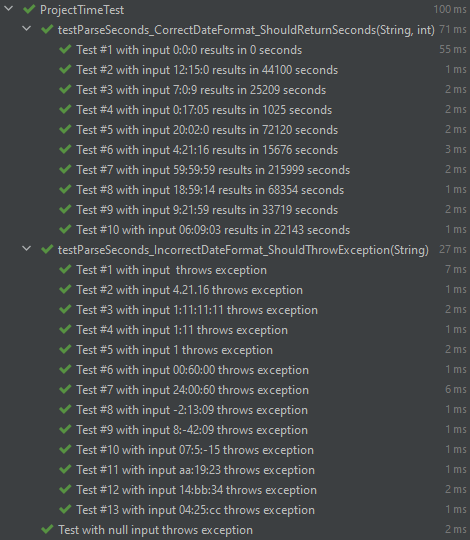
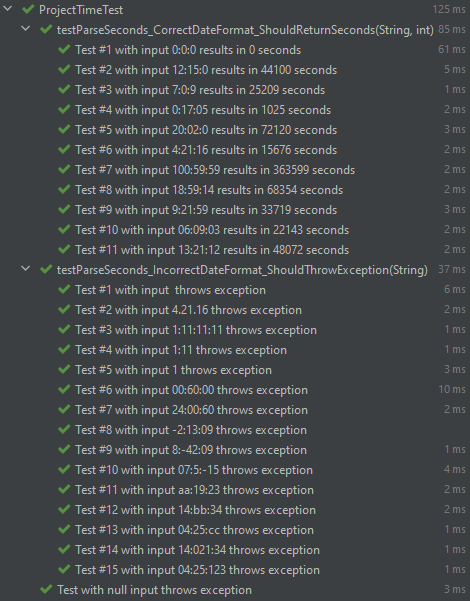
Added some missing cases

Changed region(s): [[0.0596, 0.0, 1.0, 1.0], [0.0298, 0.4444, 0.0596, 0.4741], [0.0298, 0.0296, 0.0596, 0.0593]]

diff --git a/src/test/java/de/dominik_geyer/jtimesched/project/ProjectTest.java b/src/test/java/de/dominik_geyer/jtimesched/project/ProjectTest.java
@@ -42,32 +42,31 @@ public class ProjectTest {
     @Nested
     public class adjustSecondsTodayTest {
         Project proj;
+        final int overallTime = 50;
+        final int previousValue = 4;
         
         @BeforeEach
         void setup() {
             proj = new Project("Test Project");
 
-            proj.setSecondsToday(4);
-            proj.setSecondsOverall(50);
+            proj.setSecondsToday(previousValue);
+            proj.setSecondsOverall(overallTime);
         }
         
         @ParameterizedTest(name = "Test #{index} with Positive input {arguments}")
-        @ValueSource(ints = {1,2,5,6})
+        @ValueSource(ints = {1,2,3,4,5,6})
         public void testAdjustSecondsToday_PositiveInput_ShouldReturnOverallTime(int value) {
-            
             proj.adjustSecondsToday(value);
-            assertEquals(value,proj.getSecondsToday());
-            assertEquals(50 + value - 4,proj.getSecondsOverall());
-        } 
-       
+            assertEquals(value, proj.getSecondsToday());
+            assertEquals(overallTime + value - previousValue, proj.getSecondsOverall());
+        }
 
-        @ParameterizedTest(name = "Test #{index} with Negative Input {arguments}")
-        @ValueSource(ints = {-2,-1,0})
+        @ParameterizedTest(name = "Test #{index} with Non-Positive input {arguments}")
+        @ValueSource(ints = {-2,0})
         public void testAdjustSecondsToday_NegativeInput_ShouldBecomeZero(int value) {
-
             proj.adjustSecondsToday(value);
-            assertEquals(0,proj.getSecondsToday());
-            assertEquals(50 - 4,proj.getSecondsOverall());
+            assertEquals(0, proj.getSecondsToday());
+            assertEquals(overallTime - previousValue, proj.getSecondsOverall());
         }
     }
 }

diff --git a/src/test/java/de/dominik_geyer/jtimesched/project/ProjectTimeTest.java b/src/test/java/de/dominik_geyer/jtimesched/project/ProjectTimeTest.java
@@ -18,13 +18,13 @@ public class ProjectTimeTest {
     }
 
     @ParameterizedTest(name = "Test #{index} with input {0} results in {1} seconds")
-    @CsvSource(value = {"0:0:0,0", "12:15:0,44100", "7:0:9,25209", "0:17:05,1025", "20:02:0,72120", "4:21:16,15676", "59:59:59,215999", "18:59:14,68354", "9:21:59,33719", "06:09:03,22143"})
+    @CsvSource(value = {"0:0:0,0", "12:15:0,44100", "7:0:9,25209", "0:17:05,1025", "20:02:0,72120", "4:21:16,15676", "100:59:59,363599", "18:59:14,68354", "9:21:59,33719", "06:09:03,22143", "13:21:12,48072"})
     public void testParseSeconds_CorrectDateFormat_ShouldReturnSeconds(String format, int value) throws ParseException {
         assertEquals(value, parseSeconds(format));
     }
 
     @ParameterizedTest(name = "Test #{index} with input {arguments} throws exception")
-    @ValueSource(strings = {"", "4.21.16", "1:11:11:11","1:11","1","00:60:00","24:00:60", "-2:13:09", "8:-42:09", "07:5:-15", "aa:19:23", "14:bb:34", "04:25:cc"})
+    @ValueSource(strings = {"", "4.21.16", "1:11:11:11","1:11","1","00:60:00","24:00:60", "-2:13:09", "8:-42:09", "07:5:-15", "aa:19:23", "14:bb:34", "04:25:cc", "14:021:34", "04:25:123"})
     public void testParseSeconds_IncorrectDateFormat_ShouldThrowException(String format) {
         assertThrows(ParseException.class, () -> parseSeconds(format));
     }

diff --git a/assignments/assignment3.md b/assignments/assignment3.md
@@ -22,7 +22,7 @@ After applying the *Category Partition* algorithm to these functions, we perform
 For each partition, we test an *in-point*: a value that makes the condition at hand evaluate to true.
 For each boundary, we test an *on-point*, which corresponds to the value that is exactly on the borderline, therefore being the value that we can see in the condition itself.
 We also test, for each boundary, an *off-point*, which is the value closest to the borderline that flips the condition's result. In the cases where the result of the boundary value differs from the result of both its closest values, it is necessary to test two *off-points*, one in each direction.
-Some *out-points* are naturally tested (values that make the condition evaluate to false), since we choose an *in-point* for each condition.
+Some *out-points* are naturally tested (values that make the condition evaluate to false) since we choose an *in-point* for each condition.
 
 We tried our best to follow a black-box testing approach, even though the [documentation](https://paginas.fe.up.pt/~jcmc/tvvs/2022-2023/assignments/jtimesched-javadoc/index.html) of the project at hand is non-existent, limited only to the signature of the functions.
 For this reason, we were forced to resort to source code to understand the purpose of some functions, but even in these cases, we tried to just focus on their purpose and not on their functioning, to avoid being influenced when writing the tests.
@@ -41,8 +41,8 @@ Changing project times should update overall and today's times properly, hence t
 #### *Category-Partition* algorithm
 
 1. This method has only one parameter:
-    - `secondsToday`: an int representing the provided seconds in the table field.
-1. For each parameter we define the characteristics as:
+    - `secondsToday`: an int representing the provided seconds in the table field
+1. For each parameter, we define the characteristics as:
     - `secondsToday`: corresponds to the number of seconds of the user input variable
 1. The number of characteristics and parameters is not too large in this case, so we don't need to be defining testable combinations of features.
    *Constraints*: negative values for the variable `secondsToday` are not allowed.
@@ -57,99 +57,95 @@ Changing project times should update overall and today's times properly, hence t
 Regarding the `secondsToday` variable, there are three possible partitions, where `previousValue` is the previous value of `secondsToday` before the method execution:
 
 1. E1: `secondsToday` &le; 0
-1. E2: 0 &lt; `secondsToday` &lt; `previousValue` 
+1. E2: 0 &lt; `secondsToday` &le; `previousValue`
 1. E3: 0 &lt; `previousValue` &lt;  `secondsToday`
 
 Visually representing the partitions, we are faced with the following graphic:
 
 ![Domain of the variable `secondsToday`](./images/domain_secondsToday.png)
 
-The three chosen test cases corresponding to *in-points* of each partition are -2, 2 and 6.
+In the case to be tested, we consider that the previous value of `secondsToday` (`previousValue`) is 4.
+
+According to this, the three chosen test cases corresponding to *in-points* of each partition are -2, 2 and 6.
+For the first boundary (between E1 and E2), we get the *on-point* 0 and there is only one *off-point*, the value 1, because it's the closest value where the result flips (non-positive values have the same result: `secondsToday` becomes zero, and the time variables are updated accordingly).
+For the second boundary (between E2 and E3), we get the *on-point* 4 and there are two *off-points*, 3 and 5, since when `secondsToday` is equal to `previousValue` no changes occur to the time variables, and the behaviour of the *off-points* differs: 3 results in a decrease of the time variables and 5 results in an increase.
 
 Finally, the following image represents the tested input values for the `adjustSeconds` parameter, according to the tested situation (`previousValue` = 4).
 
 ![Tested input values of the variable `secondsToday` after *Boundary Value Analysis*](./images/points_secondsToday.png)
 
-- previousValue = 4
-- *On-Points*: 0 and 4
-- *Off-Points*: -1 and 5
-- *In-points*: -2 , 2, and 4
-TODO: Arranjar a forma de descrever esta imagem final de uma forma mais semelhante ás que o paulinho fez, apra ser consistente
-
 #### Unit Tests
 
-The tests implemented for this function can be found in the `ProjectTest.java` file, inside the test directory. We decided to create two test methods for different input values of the `secondsToday` parameter.
+The tests implemented for this function can be found in the `ProjectTest.java` file, inside the test directory.
+We decided to create two test methods for different input values of the `secondsToday` parameter.
 
 All tests have the following steps:
 1. Creating a new `Project` variable
-1. Setting the project's `secondsToday` variable to a specific value and `secondsOverall` variables to a specific value
-1. Calling the `adjustSecondsToday` method with a specific value in its argument
-1. Verifying the final values for the `secondsToday` and `secondsOverall` variables after the method has been called, expecting a predetermined output using the `assertEquals` method
+1. Setting the project's `secondsToday` and `secondsOverall` variables to a specific initial value (4 and 50, respectively)
+1. Calling the `adjustSecondsToday` method with a specific value as its argument
+1. Verifying the final values for the `secondsToday` and `secondsOverall` variables after the method has been called, expecting the proper changes of the time variables using the `assertEquals` method
 
-Using the `@BeforeEach` annotation, we manage to perform the first 2 steps immediately before every single test. Therefore, the tests only differ on the values provided for steps 3 and 4.
+Using the `@BeforeEach` annotation, we manage to perform the first two steps immediately before every single test.
+Therefore, the tests only differ on the values provided for steps three and four.
 
-We have decided to choose 4 as the previous value for the `secondsToday` variable before method call, which allows testing the borders as well as nominal values in the interval.
+We have decided to choose 4 as the previous value for the `secondsToday` variable before the method call, which allows testing the borders as well as nominal values in the interval.
 The `secondsOverall` variable is set to 50, which is simply a fixed value used to ensure the method performs its expected operations.
 
 ```java
-public class adjustSecondsTodayTest {
-    Project proj;
-    
-    @BeforeEach
-    void setup() {
-        proj = new Project("Test Project");
-
-        proj.setSecondsToday(4);
-        proj.setSecondsOverall(50);
-    }
-
-    // ... remaining tests ... 
+@Nested
+public class adjustSecondsTodayTest { 
+  Project proj;
+  final int overallTime = 50;
+  final int previousValue = 4;
+   
+  @BeforeEach
+  void setup() { 
+    proj = new Project("Test Project");
+   
+    proj.setSecondsToday(previousValue);
+    proj.setSecondsOverall(overallTime);
+  }
+   
+  (...)
 }
 ```
 
-In the first case, there are two categories being tested, either when:
-1. The value initially set on the `secondsToday` variable before the method call is *smaller* than the given argument (Partition E2)
-2. The value initially set on the `secondsToday` variable before the method call is *greater* than the given argument (Partition E3)
+In the first case, two categories are being tested, either when:
 
-Both categories have two values being tested, the first being the closest *off-point* to the border, and the second being a nominal value in the provided interval.
+1. The value provided in the `secondsToday` parameter is *smaller or equal* to the previous value (Partition E2)
+1. The value provided in the `secondsToday` parameter is *greater* than the previous value (Partition E3)
 
 This results, respectively, in:
-1. An *increased* expected output of the `secondsOverall` variable after the method call;
-2. A *lowered* expected output of the `secondsOverall` variable after the method call;
 
+1. A *lowered or equal* expected output of the `secondsOverall` variable after the method call;
+1. An *increased* expected output of the `secondsOverall` variable after the method call;
 
 ```java
 @ParameterizedTest(name = "Test #{index} with Positive input {arguments}")
-    @ValueSource(ints = {1,2,5,6})
-    public void testAdjustSecondsToday_PositiveInput_ShouldReturnOverallTime(int value) {
-        Project proj = new Project("Test Project");
-        proj.setSecondsToday(4);
-        proj.setSecondsOverall(50);
-        proj.adjustSecondsToday(value);
-
-        assertEquals(value,proj.getSecondsToday());
-        assertEquals(50 + value - 4,proj.getSecondsOverall());
-    } 
+@ValueSource(ints = {1,2,3,4,5,6})
+public void testAdjustSecondsToday_PositiveInput_ShouldReturnOverallTime(int value) {
+  proj.adjustSecondsToday(value);
+  assertEquals(value, proj.getSecondsToday());
+  assertEquals(overallTime + value - previousValue, proj.getSecondsOverall());
+}
 ```
 
-In the seconds and last case, the E1 partition is being tested, as the value initially set on the `secondsToday` variable is positive and the one provided in the method call is not positive. In the situation, the parameter is parsed as zero and the method updates the `secondsToday` and `secondsOverall` variables accordingly.
+In the second case, the E1 partition is being tested, as the value initially set on the `secondsToday` variable is positive and the one provided in the method call is not positive.
+In this situation, the parameter is parsed as zero and the method updates the `secondsToday` and `secondsOverall` variables accordingly.
 
 ```java
-@ParameterizedTest(name = "Test #{index} with Non Positive Input {arguments}")
-    @ValueSource(ints = {-2,-1,0})
-    public void testAdjustSecondsToday_NegativeInput_ShouldBecomeZero(int value) {
-
-        proj.adjustSecondsToday(value);
-        assertEquals(0,proj.getSecondsToday());
-        assertEquals(50 - 4,proj.getSecondsOverall());
-    }
+@ParameterizedTest(name = "Test #{index} with Non-Positive input {arguments}")
+@ValueSource(ints = {-2,0})
+public void testAdjustSecondsToday_NegativeInput_ShouldBecomeZero(int value) {
+  proj.adjustSecondsToday(value);
+  assertEquals(0, proj.getSecondsToday());
+  assertEquals(overallTime - previousValue, proj.getSecondsOverall());
+}
 ```
 
 All the tests above passed successfully, as expected.
 
-TODO: Mudar o .png, eu tou a testar com o VSCode, convém ficar igual pelo intelIJ em todo o lado.
-![All tests of the method `adjustSecondsToday` passed successfully](./images/cp_tests2.png)
-
+![All tests of the method `adjustSecondsToday` passed successfully](./images/bva_tests1.png)
 
 ### 2) `public static int parseSeconds(String strTime) throws ParseException`
 
@@ -172,7 +168,7 @@ This possibility, together with the importance of robustness concerning user inp
 1. This method has only one parameter:
     - `strTime`: a string representing a given time
 
-1. For each parameter we define the characteristics as:
+1. For each parameter, we define the characteristics as:
     - `strTime`: corresponds to a time representation, in the format `h:m:s`, where `h`, `m` and `s` are the hours, minutes, and seconds of that time duration, respectively
 
 1. The number of characteristics and parameters is not too large in this case, so we don't need to be defining testable combinations of features.
@@ -189,7 +185,7 @@ This possibility, together with the importance of robustness concerning user inp
         - `strTime` duration is less than 24 hours (**S5**)
         - `strTime` duration exceeds 24 hours (**S6**)
         - `strTime` time units have leading zeros (**S7**)
-    - `strTime` is not null, but doesn't conform to the time format (**E3**)
+    - `strTime` is not null but doesn't conform to the time format (**E3**)
         - `strTime` is an empty string (**S8**)
         - `strTime` uses a separator character other than `:` (**S9**)
         - `strTime` uses more than two separators, to reference days, for example (**S10**)
@@ -199,6 +195,7 @@ This possibility, together with the importance of robustness concerning user inp
         - the time unit seconds of `strTime` exceeds the value 59 (**S14**)
         - some time unit of `strTime` contains a negative number (**S15**)
         - some time unit of `strTime` contains non-numeric characters (**S16**)
+        - some time unit of `strTime` contains more than two digits in the minutes and seconds time units (**S17**)
 
 #### *Boundary Value Analysis*
 
@@ -214,7 +211,7 @@ Accordingly, we will now define the test points for each of the sub-partitions.
    - **S3**: both *in-point* and *on-point* can be "7:0:9", and the two *off-points* can be null and the empty string, for example
    - **S4**: both *in-point* and *on-point* can be "0:17:05", and the two *off-points* can be null and the empty string, for example
    - **S5**: both *in-point* and *on-point* can be "20:02:0", and the two *off-points* can be null and the empty string, for example
-   - **S6**: both *in-point* and *on-point* can be "59:59:59", and the two *off-points* can be null and the empty string, for example
+   - **S6**: both *in-point* and *on-point* can be "100:59:59", and the two *off-points* can be null and the empty string, for example
    - **S7**: both *in-point* and *on-point* can be "06:09:03", and the two *off-points* can be null and the empty string, for example
 
 
@@ -227,6 +224,7 @@ Accordingly, we will now define the test points for each of the sub-partitions.
    - **S14**: both *in-point* and *on-point* can be "24:00:60", and the two *off-points* can be null and "9:21:59", for example
    - **S15**: both *in-points* and *on-points* can be "-2:13:09", "8:-42:09" or "07:5:-15", and the two *off-points* can be null and "06:09:03", for example
    - **S16**: both *in-points* and *on-points* can be "aa:19:23", "14:bb:34" or "04:25:cc", and the two *off-points* can be null and "0:17:05", for example
+   - **S17**: both *in-points* and *on-points* can be "14:021:34" or "04:25:123", and the two *off-points* can be null and "13:21:12", for example
 
 #### Unit Tests
 
@@ -249,7 +247,7 @@ We feed the function the various input-output pairs using the `@CsvSource` annot
 
 ```java
 @ParameterizedTest(name = "Test #{index} with input {0} results in {1} seconds")
-@CsvSource(value = {"0:0:0,0", "12:15:0,44100", "7:0:9,25209", "0:17:05,1025", "20:02:0,72120", "4:21:16,15676", "59:59:59,215999", "06:09:03,22143"})
+@CsvSource(value = {"0:0:0,0", "12:15:0,44100", "7:0:9,25209", "0:17:05,1025", "20:02:0,72120", "4:21:16,15676", "100:59:59,363599", "18:59:14,68354", "9:21:59,33719", "06:09:03,22143", "13:21:12,48072"})
 public void testParseSeconds_CorrectDateFormat_ShouldReturnSeconds(String format, int value) throws ParseException {
   assertEquals(value, parseSeconds(format));
 }
@@ -261,7 +259,7 @@ Bearing in mind that now we only need to pass a single value to the test functio
 
 ```java
 @ParameterizedTest(name = "Test #{index} with input {arguments} throws exception")
-@ValueSource(strings = {"", "4.21.16", "1:11:11:11","1:11","1","00:60:00","24:00:60", "-2:13:09", "8:-42:09", "07:5:-15", "aa:19:23", "14:bb:34", "04:25:cc"})
+@ValueSource(strings = {"", "4.21.16", "1:11:11:11","1:11","1","00:60:00","24:00:60", "-2:13:09", "8:-42:09", "07:5:-15", "aa:19:23", "14:bb:34", "04:25:cc", "14:021:34", "04:25:123"})
 public void testParseSeconds_IncorrectDateFormat_ShouldThrowException(String format) {
   assertThrows(ParseException.class, () -> parseSeconds(format));
 }
@@ -288,7 +286,7 @@ Furthermore, it receives two integers as parameters, to which we can apply *Boun
     - `row`: an integer value to select the table row to edit. This effectively selects which project the user wants to edit.
     - `column`: an integer value to select the table column to edit. This effectively selects which value of the project the user wishes to edit.
 
-1. For each parameter we define the characteristics as:
+1. For each parameter, we define the characteristics as:
     - `row`: must be an integer value lower or equal to the number of existing projects.
     - `column`: must be an integer value from 0 to 7, representing the project column the user wishes to edit.
 
@@ -396,6 +394,7 @@ public void testIsCellEditable_EditableCell_ShouldReturnTrue(int column) {
 ```
 
 The second case, as an opposite, checks if all cells that are prohibited from being edited return false when the `isCellEditable` method is called.
+Note that the columns `COLUMN_TIMETODAY` and `COLUMN_TIMEOVERALL` belong to both tests because in this case the projects are running and these fields become non-editable.
 
 ```java
 @ParameterizedTest(name = "Test #{index} with input {arguments} returns false")
@@ -415,7 +414,7 @@ public void testIsCellEditable_NonEditableCell_ShouldReturnFalse(int column) thr
 
 Note that both *on-points* of the `column` variable are tested in these first two cases, as they correspond to valid columns.
 The third and last case includes the situations in which exceptions are expected to be thrown.
-There are several combinations explored, especially in order to cover all test points that resulted from the *Boundary Value Analysis*.
+There are several combinations explored, especially to cover all test points that resulted from the *Boundary Value Analysis*.
 
 ```java
 @ParameterizedTest(name = "Test #{index} with input ({arguments}) throws exception")
